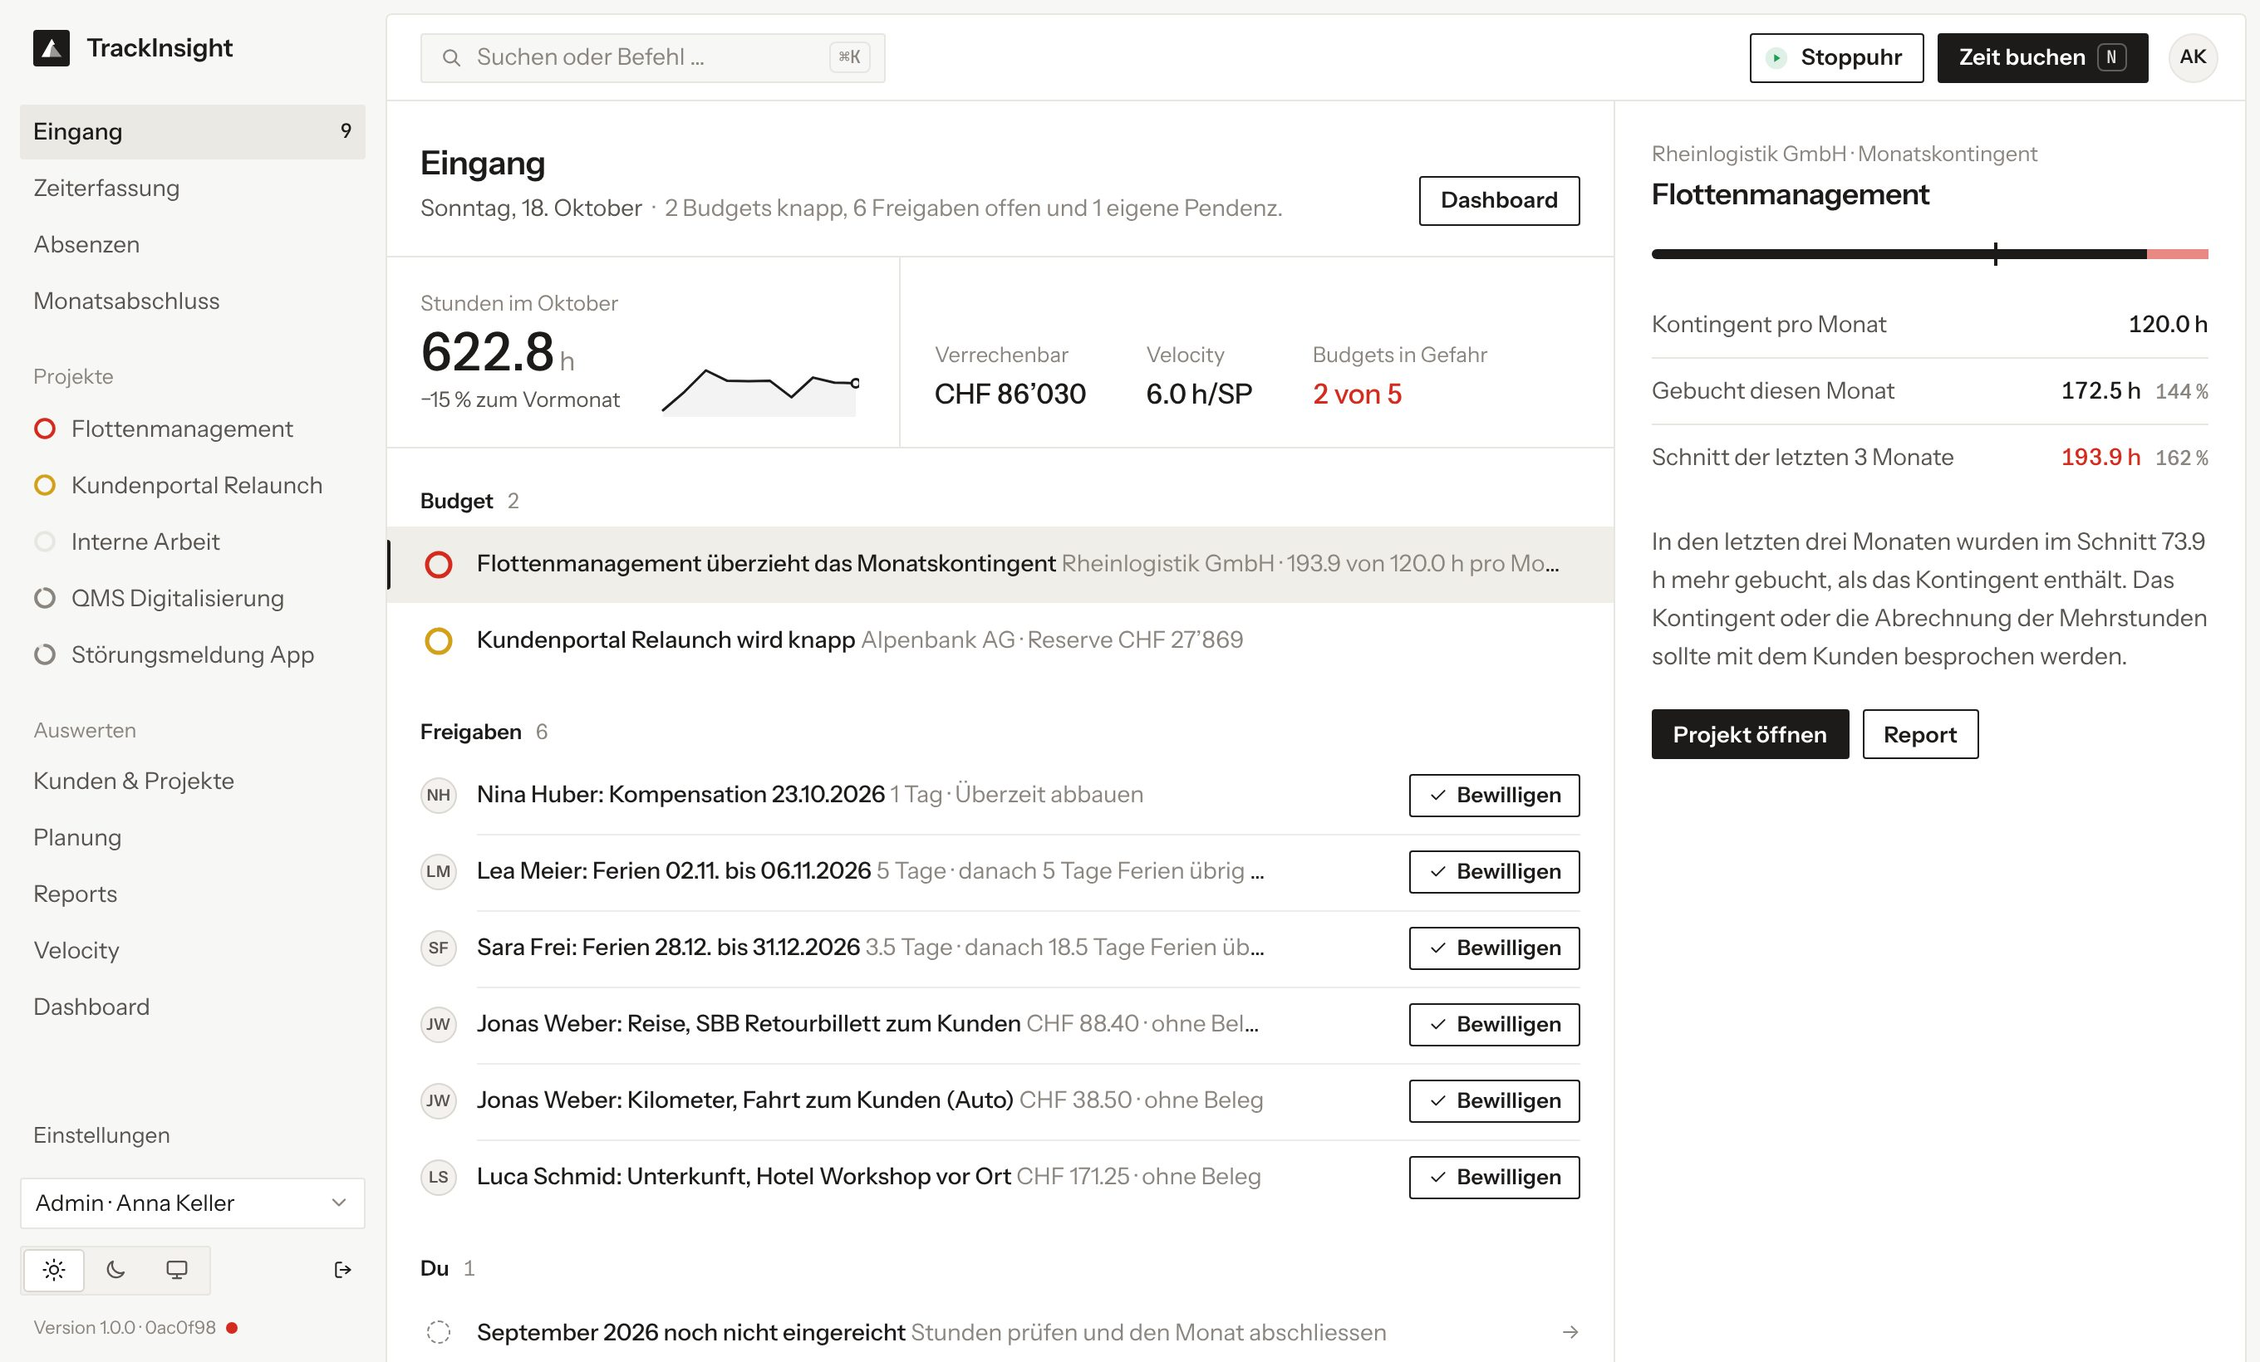
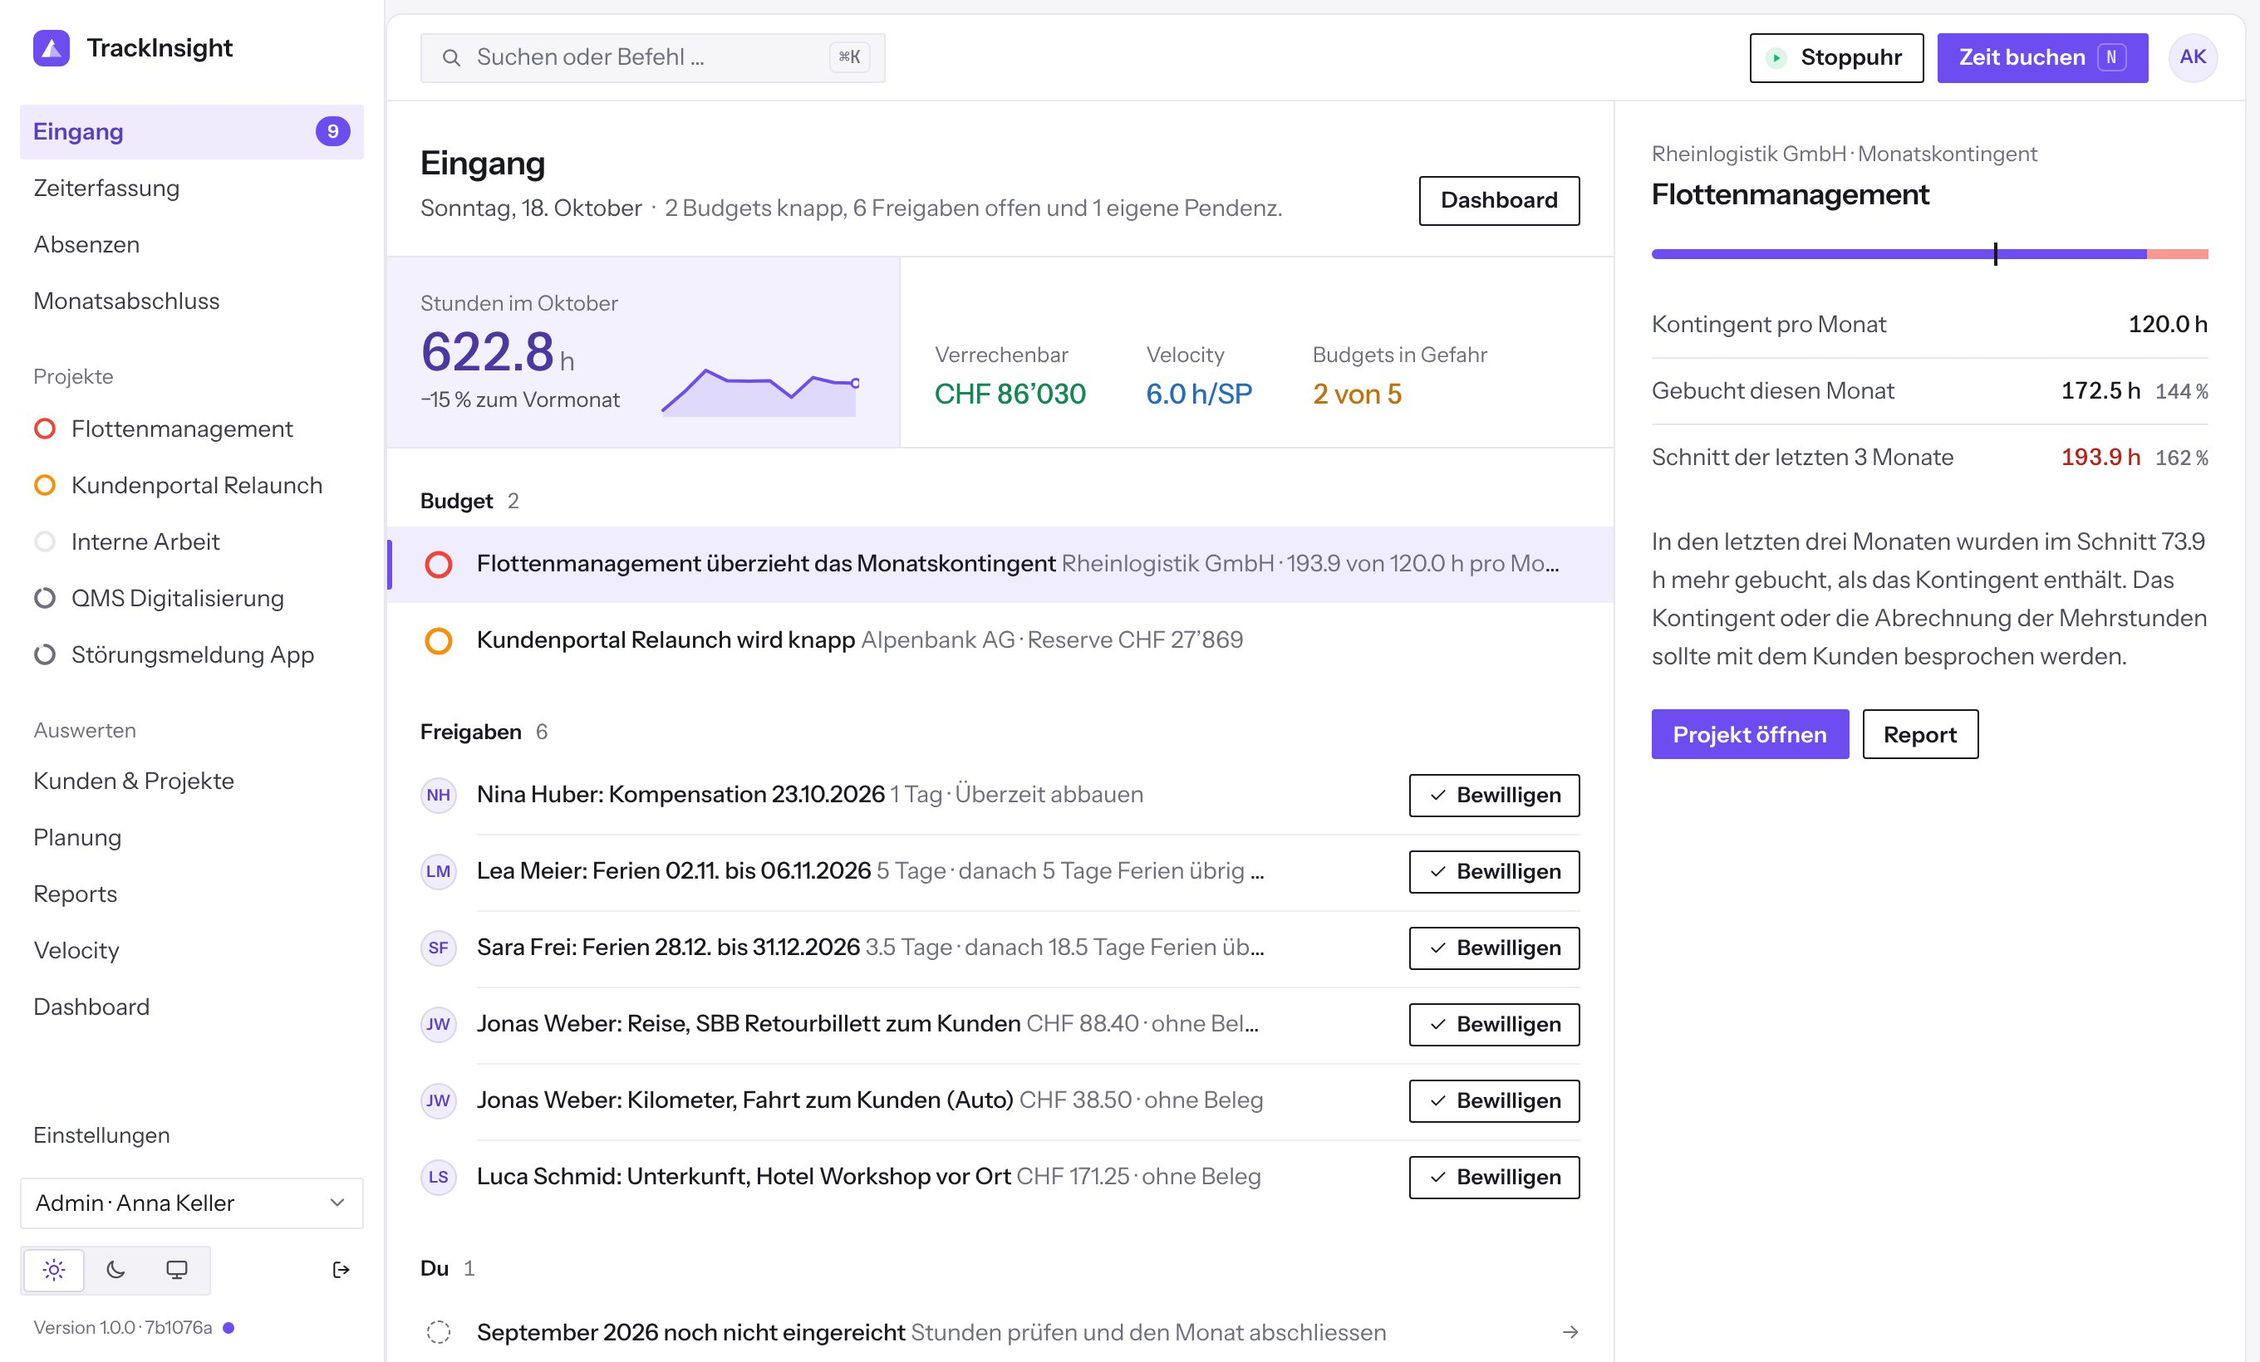
Website in violet, current app screenshots, search engine basics
The website uses the app's new colours (violet actions, one hue per topic)
and fresh screenshots. For search engines it now has a sitemap, canonical
links, absolute Open Graph images and structured data for the product,
its prices and the FAQ; the 404 page and the AVV template are noindex.
The server fills in %SITE_URL% in pages, sitemap.xml and robots.txt.

Claude-Session: https://claude.ai/code/session_014d8macTezQv88fp2zh6x4W

diff --git a/website/src/site.css b/website/src/site.css
@@ -2,16 +2,18 @@
 @font-face { font-family: "Instrument Sans"; font-style: normal; font-weight: 400 700; font-display: swap; src: url(fonts/instrument-sans-latin.woff2) format("woff2"); unicode-range: U+0000-00FF, U+0131, U+0152-0153, U+02BB-02BC, U+02C6, U+02DA, U+02DC, U+0304, U+0308, U+0329, U+2000-206F, U+20AC, U+2122, U+2191, U+2193, U+2212, U+2215, U+FEFF, U+FFFD; }
 @font-face { font-family: "Instrument Sans"; font-style: normal; font-weight: 400 700; font-display: swap; src: url(fonts/instrument-sans-latin-ext.woff2) format("woff2"); unicode-range: U+0100-02BA, U+02BD-02C5, U+02C7-02CC, U+02CE-02D7, U+02DD-02FF, U+0304, U+0308, U+0329, U+1D00-1DBF, U+1E00-1E9F, U+1EF2-1EFF, U+2020, U+20A0-20AB, U+20AD-20C4, U+2113, U+2C60-2C7F, U+A720-A7FF; }
 
-/* TrackInsight website. Same tokens as the app (web/src/styles.css): warm stone greys, Instrument Sans,
-   square «Schweizer Raster» buttons, brand red only as a small marker. */
+/* TrackInsight website. Same tokens as the app (web/src/styles.css), colours «Bunt mit System»: cool light greys,
+   violet for actions, a fixed hue per topic, Instrument Sans and square «Schweizer Raster» buttons. */
 :root {
-  --bg: #f7f7f5; --surface: #fff; --surface-2: #f3f2ef;
-  --ink: #1c1b19; --ink-2: #57534e; --muted: #8a857e;
-  --line: #e8e6e1; --line-strong: #dad7d0;
-  --brand: #d52b1e; --brand-ink: #b8231a;
+  --bg: #f6f6f9; --surface: #fff; --surface-2: #f3f3f7;
+  --ink: #18181f; --ink-2: #4a4a57; --muted: #6e6e7c;
+  --line: #e7e7ee; --line-strong: #d9d9e3;
+  --brand: #6d4cf0; --brand-ink: #5b3fd6;
+  --action: #6d4cf0; --action-hover: #5b3fd6;
+  --hue-1: #6d4cf0; --hue-2: #12b76a; --hue-3: #2e90fa; --hue-4: #f79009; --hue-5: #ee46bc;
   --on-ink: #fff;
   --ph: #fff4c2; --ph-ink: #6b5200;
-  --radius: 4px; --radius-s: 2px;
+  --radius: 10px; --radius-s: 2px;
   --font: "Instrument Sans", system-ui, -apple-system, "Segoe UI", sans-serif;
   --mono: "JetBrains Mono", ui-monospace, "SF Mono", Menlo, monospace;
   --max: 1160px;
@@ -20,19 +22,21 @@
 }
 @media (prefers-color-scheme: dark) {
   :root:not([data-theme="light"]) {
-    --bg: #121110; --surface: #1a1918; --surface-2: #211f1d;
-    --ink: #edebe7; --ink-2: #b8b2a9; --muted: #8f897f;
-    --line: #2b2926; --line-strong: #3a3733;
-    --brand: #e5483a; --brand-ink: #f07a6f; --on-ink: #121110;
+    --bg: #0f0f14; --surface: #17171e; --surface-2: #1f1f28;
+    --ink: #ededf3; --ink-2: #b0b0bf; --muted: #80808f;
+    --line: #2a2a35; --line-strong: #383845;
+    --brand: #9b85ff; --brand-ink: #b9a9ff; --on-ink: #0f0f14;
+    --hue-1: #9b85ff; --hue-2: #3ccf8e; --hue-3: #5aa9ff; --hue-4: #ffad3d; --hue-5: #f472d0;
     --ph: #3d3311; --ph-ink: #f3d77a;
     color-scheme: dark;
   }
 }
 :root[data-theme="dark"] {
-  --bg: #121110; --surface: #1a1918; --surface-2: #211f1d;
-  --ink: #edebe7; --ink-2: #b8b2a9; --muted: #8f897f;
-  --line: #2b2926; --line-strong: #3a3733;
-  --brand: #e5483a; --brand-ink: #f07a6f; --on-ink: #121110;
+  --bg: #0f0f14; --surface: #17171e; --surface-2: #1f1f28;
+  --ink: #ededf3; --ink-2: #b0b0bf; --muted: #80808f;
+  --line: #2a2a35; --line-strong: #383845;
+  --brand: #9b85ff; --brand-ink: #b9a9ff; --on-ink: #0f0f14;
+  --hue-1: #9b85ff; --hue-2: #3ccf8e; --hue-3: #5aa9ff; --hue-4: #ffad3d; --hue-5: #f472d0;
   --ph: #3d3311; --ph-ink: #f3d77a;
   color-scheme: dark;
 }
@@ -338,3 +342,66 @@ td.c, th.c { text-align: center; padding-right: 0; width: 110px; }
 .roadmap article h3 { font-size: 1.08rem; letter-spacing: -0.012em; }
 .roadmap article p { margin-top: 6px; color: var(--ink-2); font-size: 0.97rem; }
 @media (max-width: 860px) { .roadmap { grid-template-columns: 1fr; } .roadmap > section + section { padding-left: 0; border-left: 0; margin-top: 24px; border-top: 1px solid var(--line); } }
+
+/* ---------- «Bunt mit System»: violet for actions, one hue per topic ---------- */
+.btn.primary { background: var(--action); border-color: var(--action); color: #fff; }
+@media (hover: hover) { .btn.primary:hover { background: var(--action-hover); border-color: var(--action-hover); color: #fff; } .btn.ghost:hover { color: var(--brand-ink); } }
+:focus-visible { outline-color: var(--brand); }
+.hero::after { content: ""; position: absolute; inset: -20% -10% auto; height: 640px; pointer-events: none;
+  background: radial-gradient(40% 50% at 18% 30%, color-mix(in srgb, var(--hue-1) 16%, transparent), transparent 70%),
+              radial-gradient(30% 40% at 78% 18%, color-mix(in srgb, var(--hue-5) 11%, transparent), transparent 70%),
+              radial-gradient(30% 40% at 60% 60%, color-mix(in srgb, var(--hue-3) 10%, transparent), transparent 70%); }
+.hero .wrap { z-index: 1; }
+.hero h1 em { color: var(--brand); }
+.shot, .frame { box-shadow: 0 30px 80px -40px color-mix(in srgb, var(--brand) 55%, transparent); }
+.phones .frame { border-color: var(--ink); }
+.facts { gap: 12px; background: none; border: 0; }
+.facts > div { --hue: var(--hue-1); border: 1px solid color-mix(in srgb, var(--hue) 22%, var(--surface)); border-radius: var(--radius); background: color-mix(in srgb, var(--hue) 9%, var(--surface)); }
+.facts > div:nth-child(2) { --hue: var(--hue-2); }
+.facts > div:nth-child(3) { --hue: var(--hue-3); }
+.facts > div:nth-child(4) { --hue: var(--hue-4); }
+.facts > div, .facts > div:first-child, .facts > div:nth-child(n+3) { border-left: 1px solid color-mix(in srgb, var(--hue) 22%, var(--surface)); border-top: 1px solid color-mix(in srgb, var(--hue) 22%, var(--surface)); }
+.facts b { color: color-mix(in srgb, var(--hue) 65%, var(--ink)); }
+.story:nth-of-type(4n + 1) { --hue: var(--hue-1); }
+.story:nth-of-type(4n + 2) { --hue: var(--hue-2); }
+.story:nth-of-type(4n + 3) { --hue: var(--hue-3); }
+.story:nth-of-type(4n + 4) { --hue: var(--hue-4); }
+.story .eyebrow { color: color-mix(in srgb, var(--hue, var(--brand)) 70%, var(--ink)); }
+.story .eyebrow::before, .story-text li::before { background: var(--hue, var(--brand)); border-radius: 2px; }
+.story .figure-num b { color: color-mix(in srgb, var(--hue, var(--brand)) 70%, var(--ink)); }
+.index { border-top: 0; gap: 12px; }
+.index > section { --hue: var(--hue-1); padding: 22px 22px 10px; border: 1px solid color-mix(in srgb, var(--hue) 20%, var(--surface)); border-top: 4px solid var(--hue); border-radius: var(--radius); background: color-mix(in srgb, var(--hue) 6%, var(--surface)); }
+.index > section + section, .index > section:nth-child(n+3) { padding-left: 22px; margin-top: 0; border-left: 1px solid color-mix(in srgb, var(--hue) 20%, var(--surface)); border-top: 4px solid var(--hue); }
+.index > section:nth-child(2) { --hue: var(--hue-2); }
+.index > section:nth-child(3) { --hue: var(--hue-3); }
+.index > section:nth-child(4) { --hue: var(--hue-4); }
+.index h3 span { color: var(--hue); }
+.index li { border-top-color: color-mix(in srgb, var(--hue) 16%, var(--surface)); }
+.band { background: #1b1440; color: #f1eeff; }
+.band::before { content: ""; position: absolute; inset: 0; pointer-events: none; background: radial-gradient(50% 60% at 85% 10%, rgba(238, 70, 188, .22), transparent 70%), radial-gradient(45% 55% at 10% 90%, rgba(46, 144, 250, .18), transparent 70%); }
+.band .eyebrow { color: #b9a9ff; }
+.band .eyebrow::before { background: #b9a9ff; }
+.band .lead { color: #cfc7f5; }
+.band .ridge path { fill: #241b55; }
+.band .ridge path + path { fill: #2e2368; }
+.swiss { border-top-color: #3b3175; }
+.swiss > div + div { border-left-color: #3b3175; }
+.swiss p { color: #c3bbe8; }
+.band .btn { border-color: #f1eeff; color: #f1eeff; }
+.band .btn.primary { background: #fff; border-color: #fff; color: #1b1440; }
+@media (hover: hover) { .band .btn:hover { background: #f1eeff; color: #1b1440; } .band .btn.primary:hover { background: var(--hue-1); border-color: var(--hue-1); color: #fff; } }
+@media (max-width: 860px) { .swiss > div + div { border-top-color: #3b3175; } }
+.billing-toggle { border-color: var(--brand); }
+.billing-toggle button { color: var(--brand-ink); }
+.billing-toggle button[aria-pressed="true"] { background: var(--action); color: #fff; }
+.plans { border-top-color: var(--ink); }
+.plan.featured { background: color-mix(in srgb, var(--brand) 6%, var(--surface)); }
+.plan.featured::before { background: linear-gradient(90deg, var(--hue-1), var(--hue-5)); }
+.roadmap .dot.now { background: var(--brand); }
+.plan.featured, .plan.featured + .plan { padding-right: 28px; }
+.plan.featured { padding-left: 28px; }
+@media (max-width: 860px) { .plan.featured { padding: 32px 20px; } .plan.featured + .plan { padding-right: 0; } }
+.logo-sq { fill: var(--brand); }
+.logo-f1, .logo-f2 { fill: #fff; }
+.facts { width: 100%; max-width: calc(var(--max) + 2 * var(--gutter)); margin: 24px auto 0; padding: 0 var(--gutter); }
+@media (max-width: 860px) { .facts { gap: 10px; } }

diff --git a/server/src/routes/website.ts b/server/src/routes/website.ts
@@ -14,6 +14,7 @@ const TYPES: Record<string, string> = {
   ".png": "image/png",
   ".woff2": "font/woff2",
   ".txt": "text/plain; charset=utf-8",
+  ".xml": "application/xml; charset=utf-8",
 };
 
 /** True when the request is for the public website: the SaaS base domain or www.<base>, unless the app itself runs there. */
@@ -31,7 +32,8 @@ export function isWebsiteHost(ctx: AppContext, host: string | undefined) {
 /**
  * The public website (website/ in the repository, built to WEBSITE_DIR) on trackinsight.ch, next to the app on
  * app.trackinsight.ch and the companies on <slug>.trackinsight.ch. Clean URLs: /preise serves preise.html.
- * %APP_URL% in the pages becomes APP_URL, so the sign-up buttons lead to the app.
+ * %APP_URL% in the pages becomes APP_URL, so the sign-up buttons lead to the app; %SITE_URL% (canonical links,
+ * sitemap, robots.txt) becomes the website's own address.
  */
 export function serveWebsite(app: FastifyInstance, ctx: AppContext) {
   const dir = ctx.config.WEBSITE_DIR ? resolve(ctx.config.WEBSITE_DIR) : null;
@@ -62,7 +64,10 @@ export function serveWebsite(app: FastifyInstance, ctx: AppContext) {
       }
       const ext = extname(file);
       let body: Buffer | string = read(file);
-      if (ext === ".html") body = body.toString("utf8").replaceAll("%APP_URL%", appUrl);
+      if (ext === ".html" || ext === ".xml" || ext === ".txt") {
+        const siteUrl = base ? `https://${base}` : `http://${req.headers.host ?? "website.localhost"}`;
+        body = body.toString("utf8").replaceAll("%APP_URL%", appUrl).replaceAll("%SITE_URL%", siteUrl);
+      }
       const longCache = rel.startsWith("img/") || rel.startsWith("fonts/");
       return reply
         .status(status)

diff --git a/website/src/partials/head.html b/website/src/partials/head.html
@@ -5,12 +5,17 @@
 <meta name="viewport" content="width=device-width, initial-scale=1, viewport-fit=cover">
 <title>{{title}}</title>
 <meta name="description" content="{{description}}">
+{{robots}}<link rel="canonical" href="%SITE_URL%/{{page}}">
 <meta property="og:type" content="website">
+<meta property="og:site_name" content="TrackInsight">
+<meta property="og:url" content="%SITE_URL%/{{page}}">
 <meta property="og:title" content="{{title}}">
 <meta property="og:description" content="{{description}}">
-<meta property="og:image" content="/img/app-eingang.jpg">
+<meta property="og:image" content="%SITE_URL%/img/app-eingang.jpg">
 <meta property="og:locale" content="de_CH">
-<meta name="theme-color" content="#f7f7f5">
+<meta name="twitter:card" content="summary_large_image">
+<meta name="theme-color" content="#6d4cf0">
+{{jsonld}}
 <link rel="icon" href="/favicon.svg" type="image/svg+xml">
 <link rel="preload" href="/fonts/instrument-sans-latin.woff2" as="font" type="font/woff2" crossorigin>
 <link rel="stylesheet" href="/site.css">

diff --git a/server/test/website.test.ts b/server/test/website.test.ts
@@ -50,6 +50,15 @@ describe("Website", () => {
     expect(res.headers.location).toBe(`https://${BASE}/preise`);
   });
 
+  it("fills in the site address in sitemap and robots.txt", async () => {
+    writeFileSync(join(dir, "sitemap.xml"), "<loc>%SITE_URL%/preise</loc>");
+    writeFileSync(join(dir, "robots.txt"), "Sitemap: %SITE_URL%/sitemap.xml");
+    const map = await get("/sitemap.xml", BASE);
+    expect(map.headers["content-type"]).toContain("application/xml");
+    expect(map.body).toBe(`<loc>https://${BASE}/preise</loc>`);
+    expect((await get("/robots.txt", BASE)).body).toBe(`Sitemap: https://${BASE}/sitemap.xml`);
+  });
+
   it("shows the website locally on website.localhost", async () => {
     const res = await get("/preise", "website.localhost:3000");
     expect(res.body).toBe("<h1>Preise</h1>");

diff --git a/docs/BETRIEB.md b/docs/BETRIEB.md
@@ -398,6 +398,8 @@ Für den Verkauf als Abo an viele Firmen. Selbst gehostete Installationen übers
 
 **Website:** Die öffentliche Website (Ordner `website/`, gebaut nach `website/dist`) liefert derselbe Container aus, sobald `SAAS_BASE_DOMAIN` gesetzt ist und `APP_URL` auf einer anderen Adresse läuft. `trackinsight.ch` zeigt dann Startseite, Funktionen, Preise, Sicherheit, Kontakt, Impressum, Datenschutz, AGB und AVV; `www.trackinsight.ch` leitet dorthin um. Die Preise kommen aus `packages/domain/src/plans.ts`, App und Website zeigen also immer dieselben Pakete. Das Kontaktformular schickt an `OPERATOR_EMAIL` (höchstens 5 Anfragen pro Stunde und Adresse). Texte ändern: Dateien in `website/src/pages` bearbeiten, dann wie gewohnt neu bauen. Vorschau ohne Server: `npm run build -w website -- --preview --out=/tmp/site` und `index.html` öffnen. Platzhalter in eckigen Klammern (Firma, Adresse, UID) sind gelb markiert und müssen vor dem Start ersetzt werden; AGB und Datenschutzerklärung vorher rechtlich prüfen lassen.
 
+**Suchmaschinen:** Jede Seite hat Titel, Beschreibung, eine kanonische Adresse und Vorschaubild für LinkedIn und Co. Die Startseite beschreibt das Produkt mit Preisen und die FAQ zusätzlich als strukturierte Daten. `trackinsight.ch/sitemap.xml` listet alle Seiten (ohne 404 und AVV-Vorlage), `robots.txt` verweist darauf. Nach dem Start die Domain in der Google Search Console und in Bing Webmaster Tools bestätigen und dort die Sitemap einreichen. Lokal zeigt `http://website.localhost:3000/sitemap.xml` dieselbe Liste.
+
 ## 16. Jira Cloud verbinden
 
 Firmen verbinden ihre Jira-Cloud-Site unter **Einstellungen → Jira** mit einem Klick. Dafür braucht die Installation einmalig eine App bei Atlassian (kostenlos):

diff --git a/CHANGELOG.md b/CHANGELOG.md
@@ -5,6 +5,7 @@ Alle sichtbaren Änderungen, neueste zuerst. Versionen folgen [Semantic Versioni
 ## Unveröffentlicht
 
 ### Neu
+- Website in den neuen Farben, mit aktuellen Bildern der App und Grundlagen für Suchmaschinen: Sitemap, kanonische Adressen, Vorschaubilder und strukturierte Daten zu Produkt, Preisen und FAQ.
 - Neue Farben «Bunt mit System»: Violett als Hauptfarbe, jede Kennzahl mit eigener Farbe, Ampeln unabhängig von der Hauptfarbe. Firmen mit der bisherigen Standardfarbe Rot erhalten Violett; eine eigene Farbe bleibt.
 - Alles, was man anlegt oder bearbeitet, öffnet sich jetzt in einem einheitlichen Fenster mit Pflichtfeldern, Hinweisen und Fehlern direkt am Feld.
 - Die Website läuft lokal unter http://website.localhost:3000.
